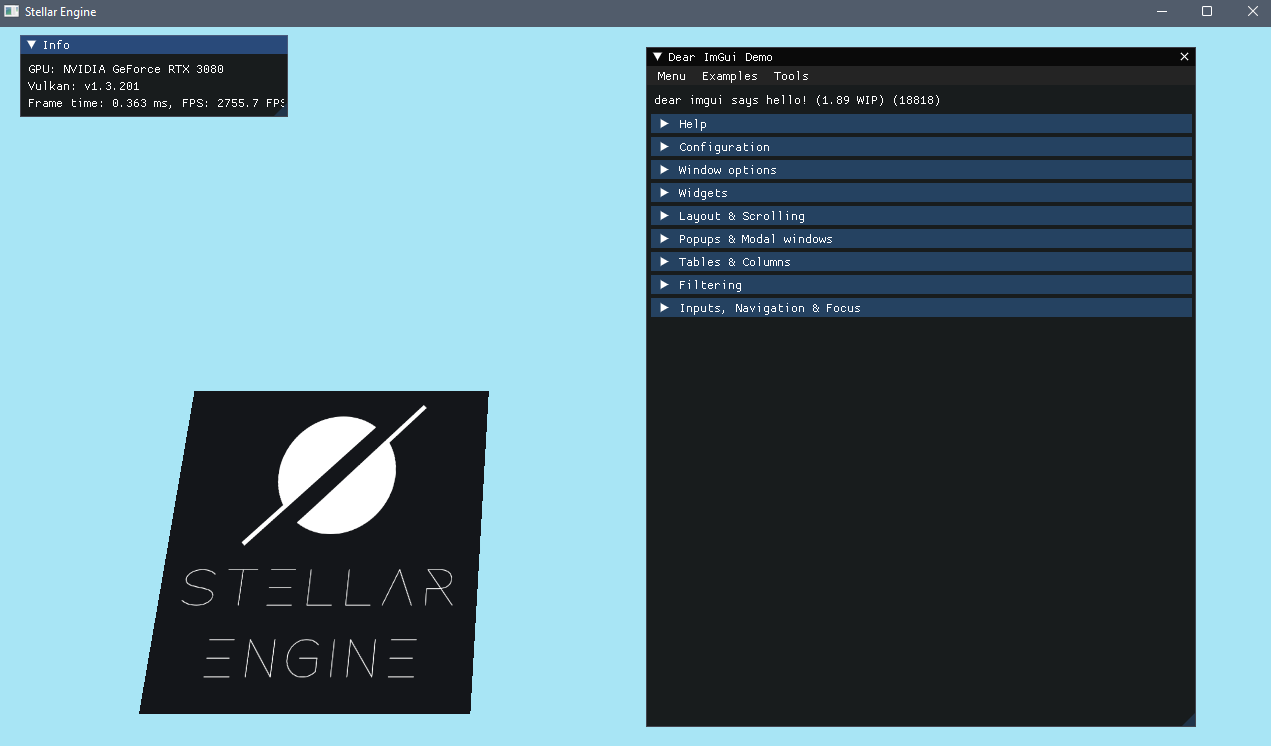
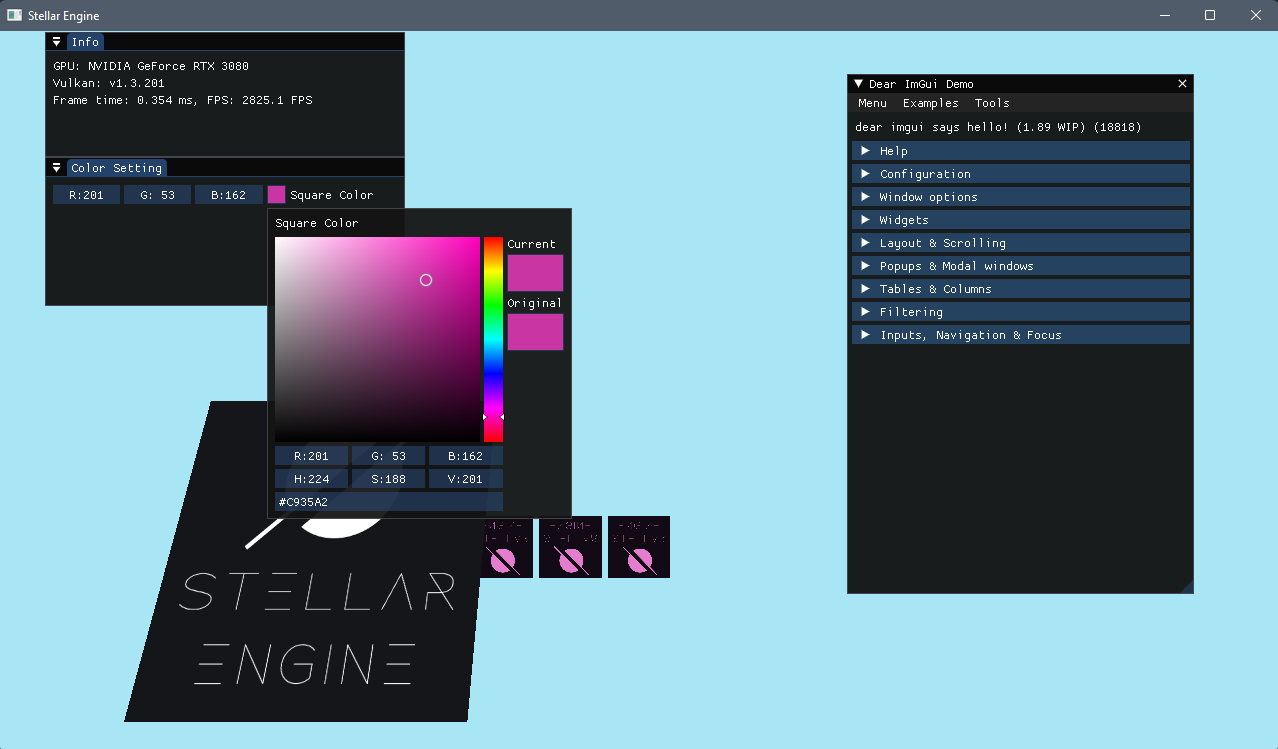
imgui color edit

diff --git a/Sandbox/src/ExampleLayer.cpp b/Sandbox/src/ExampleLayer.cpp
@@ -1,4 +1,5 @@
 #include "ExampleLayer.h"
+#include "glm/gtc/type_ptr.hpp"
 
 ExampleLayer::ExampleLayer() : Layer("Example") {
     // vertex buffer
@@ -49,8 +50,18 @@ void ExampleLayer::onUpdate(Stellar::Timestep ts) {
     Stellar::Renderer::BeginScene(m_Camera);
     Stellar::Renderer::SetClearColor({ 0.66f, 0.9f, 0.96f, 1.0f });
     Stellar::Renderer::BeginRenderPass();
+    for (int i = 0; i < 5; i++) {
+        glm::vec3 pos(i * 0.22f, 0.0f, 0.0f);
+        glm::mat4 transformTile = 
+            glm::translate(glm::mat4(1.f), pos) *
+            glm::rotate(glm::mat4(1.0f),
+                        glm::radians(90.0f),
+                        glm::vec3(1.0f, 0.0f, 0.0f)) *
+            glm::scale(glm::mat4(1.0f), glm::vec3(0.2f));
+        Stellar::Renderer::RenderGeometry(m_VertexBuffer, m_IndexBuffer, m_Color, indices.size(), transformTile);
+    }
+    Stellar::Renderer::RenderGeometry(m_VertexBuffer, m_IndexBuffer, glm::vec3(1.0f, 1.0f, 1.0f), indices.size(), transform);
     m_Texture->bind();
-    Stellar::Renderer::RenderGeometry(m_VertexBuffer, m_IndexBuffer, glm::vec3(1.0f, 0.0f, 0.0f), indices.size(), transform);
     Stellar::Renderer::EndRenderPass();
     Stellar::Renderer::EndScene();
 }
@@ -69,13 +80,15 @@ void ExampleLayer::onImGuiRender() {
     auto appInfo = Stellar::Application::Get().getAppInfo();
 
     ImGui::Begin("Info");
-
     ImGui::Text("GPU: %s", appInfo.graphicsInfo.c_str());
     ImGui::Text("%s", appInfo.vulkanVersion.c_str());
-
     ImGui::Text(
             "Frame time: %.3f ms, FPS: %.1f FPS",
             1000.0f / ImGui::GetIO().Framerate,
             ImGui::GetIO().Framerate);
+    ImGui::End();
+
+    ImGui::Begin("Color Setting");
+    ImGui::ColorEdit3("Square Color", glm::value_ptr(m_Color));
     ImGui::End();
 }

diff --git a/Sandbox/src/ExampleLayer.h b/Sandbox/src/ExampleLayer.h
@@ -24,13 +24,15 @@ private:
     Stellar::Texture2D* m_Texture{};
 
     const std::vector<Stellar::Vertex> vertices = {
-            {{-0.5f, -0.5f}, {1.0f, 0.0f, 0.0f}, {1.0f, 0.0f}},
-            {{ 0.5f, -0.5f}, {0.0f, 1.0f, 0.0f}, {0.0f, 0.0f}},
-            {{ 0.5f,  0.5f}, {0.0f, 0.0f, 1.0f}, {0.0f, 1.0f}},
-            {{-0.5f,  0.5f}, {1.0f, 1.0f, 1.0f}, {1.0f, 1.0f}}
+            {{-0.5f, -0.5f}, {1.0f, 0.0f, 0.0f}, {1.0f, 0.0f}, {1.0f}},
+            {{ 0.5f, -0.5f}, {0.0f, 1.0f, 0.0f}, {0.0f, 0.0f}, {1.0f}},
+            {{ 0.5f,  0.5f}, {0.0f, 0.0f, 1.0f}, {0.0f, 1.0f}, {1.0f}},
+            {{-0.5f,  0.5f}, {1.0f, 1.0f, 1.0f}, {1.0f, 1.0f}, {1.0f}}
     };
 
     const std::vector<uint16_t> indices = {
             0, 1, 2, 2, 3, 0
     };
+
+    glm::vec3 m_Color{1.0f};
 };

diff --git a/Stellar/src/Stellar/Platform/Vulkan/Buffer/VulkanBuffer.h b/Stellar/src/Stellar/Platform/Vulkan/Buffer/VulkanBuffer.h
@@ -37,6 +37,11 @@ namespace Stellar {
             attributeDescriptions[2].format = VK_FORMAT_R32G32_SFLOAT;
             attributeDescriptions[2].offset = offsetof(Vertex, texCoord);
 
+            attributeDescriptions[3].binding = 0;
+            attributeDescriptions[3].location = 3;
+            attributeDescriptions[3].format = VK_FORMAT_R32_SFLOAT;
+            attributeDescriptions[3].offset = offsetof(Vertex, tilingFactor);
+
             return attributeDescriptions;
         }
     };

diff --git a/Stellar/src/Stellar/Renderer/Buffer.h b/Stellar/src/Stellar/Renderer/Buffer.h
@@ -14,6 +14,7 @@ namespace Stellar {
         glm::vec2 position;
         glm::vec3 color;
         glm::vec2 texCoord;
+        float tilingFactor;
     };
 
     class STLR_API Buffer {
